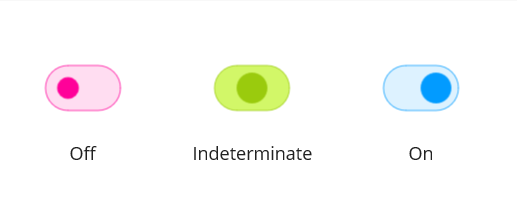
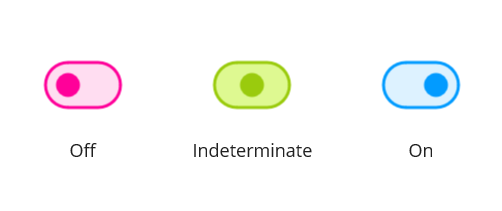
Added RTL Page

diff --git a/maui-toc.html b/maui-toc.html
@@ -952,6 +952,7 @@
             <li><a href="/maui/Switch/Migration">Migrate from Xamarin.Forms</a></li>
             <li><a href="/maui/Switch/States">States</a></li>
             <li><a href="/maui/Switch/Customization">Customization</a></li>
+            <li><a href="/maui/Switch/Right-To-Left">Right-To-Left</a></li>
             <li><a href="/maui/Switch/Events">Events</a></li>
         </ul>
     </li>

diff --git a/MAUI/Switch/customization.md b/MAUI/Switch/customization.md
@@ -24,11 +24,51 @@ The following properties are used to apply solid colors to the thumb, track, and
 
 {% highlight xaml %}
 
-
-
-{% endhighlight %}
-
-{% highlight c# %}
+<syncfusion:SfSwitch IsOn="False" AllowIndeterminateState="false"> 
+    <VisualStateManager.VisualStateGroups>
+        <VisualStateGroup  x:Name="CommonStates">
+            <VisualState x:Name="On">
+                <VisualState.Setters>
+                    <Setter Property="SwitchSettings">
+                        <Setter.Value>
+                            <syncfusion:SwitchSettings
+                                 ThumbBackground="#FF029BFF"
+                                 ThumbStroke="#FF029BFF"
+                                 TrackBackground="#22029BFF"
+                                 TrackStroke="#FF029BFF"/>
+                        </Setter.Value>
+                    </Setter>
+                </VisualState.Setters>
+            </VisualState>
+            <VisualState x:Name="Off">
+                <VisualState.Setters>
+                    <Setter Property="SwitchSettings">
+                        <Setter.Value>
+                            <syncfusion:SwitchSettings
+                                ThumbBackground="#FFFF0199"
+                                ThumbStroke="#FFFF0199"
+                                TrackBackground="#22FF0199"
+                                TrackStroke="#FFFF0199"/>
+                        </Setter.Value>
+                    </Setter>
+                </VisualState.Setters>
+            </VisualState>
+            <VisualState x:Name="Indeterminate">
+                <VisualState.Setters>
+                    <Setter Property="SwitchSettings">
+                        <Setter.Value>
+                            <syncfusion:SwitchSettings
+                                 ThumbBackground="#9ACB0D"
+                                 ThumbStroke="#9ACB0D"
+                                 TrackBackground="#DEF991"
+                                 TrackStroke="#9ACB0D"/>
+                        </Setter.Value>
+                    </Setter>
+                </VisualState.Setters>
+            </VisualState>
+        </VisualStateGroup>
+    </VisualStateManager.VisualStateGroups>
+</syncfusion:SfSwitch>
 
 {% endhighlight %}
 

diff --git a/MAUI/Switch/Right-To-Left.md b/MAUI/Switch/Right-To-Left.md
@@ -1,0 +1,14 @@
+---
+layout: post
+title: Right To Left in .NET MAUI Switch control | Syncfusion
+description: Learn here all about Right To Left support in Syncfusion .NET MAUI Switch (SfSwitch) control and more.
+platform: .NET MAUI
+control: SfSwitch
+documentation: ug
+---
+
+# Right To Left in .NET MAUI Switch (SfSwitch)
+
+SfSwitch supports to change the layout direction of the control in the right-to-left direction by setting the FlowDirection to RightToLeft or by changing the device language.
+
+![SfSwitch with RTL flowdirection]
